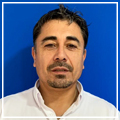
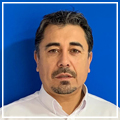
first version is working

diff --git a/web/templates/home.html b/web/templates/home.html
@@ -26,7 +26,7 @@
                 <div class="center-text__container">
                     <!-- <div class="special-blue-text">TEXTO A RESALTAR</div> -->
                     <div id="banner-carousel"></div>
-                    <div class="special-blue-text">Nazca SpA</div>
+                    {# <div class="special-blue-text">Nazca SpA</div> #}
                 </div>
             </div>
             <video id="banner-video" src="{% version '/video/video.webm' %}" autoplay muted loop></video>
@@ -74,7 +74,7 @@
                 <div class="information__description">Nuestros levantamientos de información en terreno, estudios e informes técnicos cumplen con los requerimientos y protocolos de las Autoridades y Normativas vigentes.</div>
             </div>
             <div class="our-team__img__container">
-                <img src="{% version '/img/team/Jorge_Priscilla.jpg' %}" alt="nazca team"/> 
+                <img src="{% version '/img/team/Jorge_Alvarez_Priscilla_Morales.jpeg' %}" alt="nazca team"/> 
                 <img src="{% version '/img/team/team.jpeg' %}" alt="nazca team"/> 
             </div>
         </div>

diff --git a/front/js/apps/bannerCarousel.js b/front/js/apps/bannerCarousel.js
@@ -3,7 +3,7 @@ import ReactDOM from 'react-dom';
 import { Carousel } from 'react-responsive-carousel';
 
 const BannerCarousel = () => (
-  <Carousel infiniteLoop autoPlay showThumbs={false} showIndicators={false} showArrows={false} showStatus={false}>
+  <Carousel infiniteLoop autoPlay showThumbs={false} showIndicators={false} showArrows={false} showStatus={false} interval={5000}>
     <div className="text-section" key={'banner-1'}>
       <div>Caminemos juntos en el conocimiento de nuestro océano</div>
     </div>
@@ -16,4 +16,4 @@ const BannerCarousel = () => (
   </Carousel>
 );
 
-ReactDOM.render(<BannerCarousel key='banner-carousel-1'/>, document.getElementById('banner-carousel'));
+ReactDOM.render(<BannerCarousel key='banner-carousel-1' />, document.getElementById('banner-carousel'));
